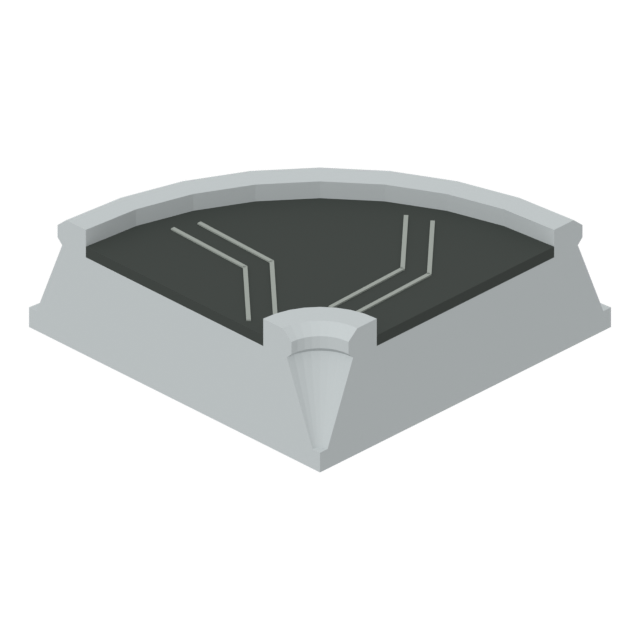
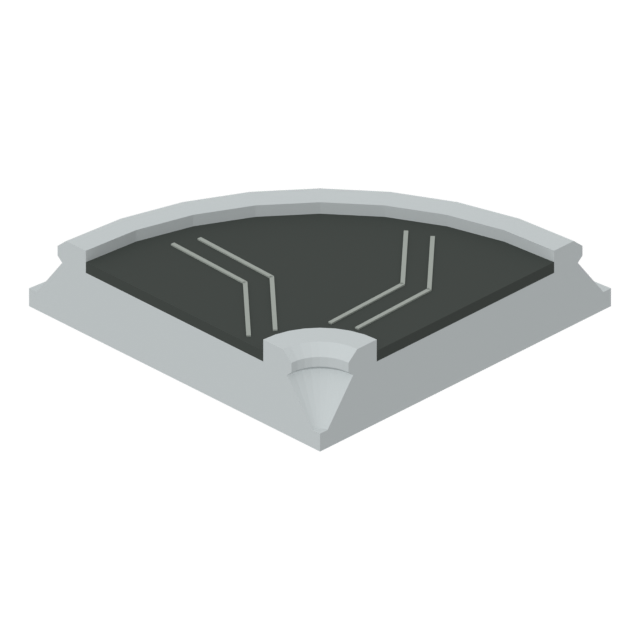
Flatten the belt by a third
The developer wants belts stacked one above another with things passing
between, as in Satisfactory. The belt's surface drops from 0.305 to
0.203 of a cell and the rails from 0.352 to 0.235; the bolts' place on
the rail and the dark of each machine's tunnel are now worked out from
those two definitions. One cell up, a second belt leaves 0.8 of a cell
(2.4 studs) clear above the first.

belts_stack shows three belts stacked with things riding each. Nothing
carries the upper belts yet. The game's own belt is unchanged.

Claude-Session: https://claude.ai/code/session_01W5XMnWw2PL68atZgiMiQxw

Changed region(s): [[0.0625, 0.25, 0.9375, 0.5938], [0.0312, 0.4062, 0.9688, 0.75]]

diff --git a/art/catalog/v2.html b/art/catalog/v2.html
@@ -110,7 +110,7 @@
       <figcaption>
         <h3>직선 벨트</h3>
         <p class="recipe">아이템을 한 방향으로 옮김</p>
-        <p class="meta">1×1칸 · 높이 0.3칸(1.0스터드) · 출입구 없음 · 삼각형 344</p>
+        <p class="meta">1×1칸 · 높이 0.2칸(0.7스터드) · 출입구 없음 · 삼각형 344</p>
       </figcaption>
     </figure>
     <figure class="card">
@@ -118,7 +118,7 @@
       <figcaption>
         <h3>코너 벨트</h3>
         <p class="recipe">진행 방향을 90도 꺾음 (좌·우 대칭형)</p>
-        <p class="meta">1×1칸 · 높이 0.3칸(1.0스터드) · 출입구 없음 · 삼각형 512</p>
+        <p class="meta">1×1칸 · 높이 0.2칸(0.7스터드) · 출입구 없음 · 삼각형 512</p>
       </figcaption>
     </figure>
     <figure class="card">
@@ -126,7 +126,7 @@
       <figcaption>
         <h3>경사 벨트</h3>
         <p class="recipe">두 칸에 걸쳐 한 칸 높이를 올림</p>
-        <p class="meta">2×1칸 · 높이 1.4칸(4.1스터드) · 출입구 없음 · 삼각형 1,828</p>
+        <p class="meta">2×1칸 · 높이 1.2칸(3.7스터드) · 출입구 없음 · 삼각형 1,828</p>
       </figcaption>
     </figure>
     <figure class="card">

diff --git a/art/v2/base.py b/art/v2/base.py
@@ -24,7 +24,9 @@ G, T, TD, W, D, SLIT = "h_grey", "h_taupe", "h_taupe_d", "h_white", "h_dark", "h
 fk.PAL.update({"h_rail": fk.PAL["h_grey"], "h_rail_d": fk.PAL["h_dark"]})
 R, RD = "h_rail", "h_rail_d"
 SIDES = (-1, 1)                       # used both for the two sides of the belt and for the two ends
-BH, BZ = 0.305, 0.305                 # belt half width and belt surface height
+BH, BZ = 0.305, 0.203                 # belt half width and belt surface height (the height was 0.305 until 2026-10-08:
+                                      # the developer asked for the belt a third flatter, so that belts can be stacked
+                                      # one above another with things passing between)
 BX, BY = 0.47, 0.43                   # half length and half width of the body block
 RAIL = [(BH, 0.0), (0.50, 0.0), (0.50, 0.10), (0.385, 0.215), (0.385, 0.305), (0.36, 0.335), (BH, 0.335)]
 
@@ -359,7 +361,7 @@ def foundation_b(m, top=0.82):
         m.prism(arch_pts(0.86, 0.74, hole_top=0.60, hw=0.315, c=0.05, ci=0.025), a, b, "X", D)
         for k in range(5):                                    # strip curtain
             m.box((0.012, 0.112, 0.27), (x1 + d * 0.02, -0.25 + k * 0.125, 0.465), SLIT)
-        m.box((0.02, 0.62, 0.40), (d * (BX + 0.012), 0, 0.50), SLIT)
+        m.box((0.02, 0.62, 0.694 - BZ), (d * (BX + 0.012), 0, (0.706 + BZ) / 2), SLIT)
     return top
 
 
@@ -394,8 +396,13 @@ def foundation_c(m, top=0.82):
 
 
 # Foundation D's rail, from the belt's edge outward and down to the ground.
-RAIL_D = [(BH, 0.352), (0.372, 0.352), (0.402, 0.326), (0.402, 0.292), (0.386, 0.276), (0.474, 0.055),
-          (0.50, 0.055), (0.50, 0.0)]
+RAIL_D = [(BH, 0.235), (0.372, 0.235), (0.402, 0.209), (0.402, 0.182), (0.386, 0.168), (0.474, 0.05),
+          (0.50, 0.05), (0.50, 0.0)]
+# Where a bolt head sits on the rail's sloping outer wall: across, up, and how far the wall leans (from RAIL_D).
+_s0, _s1 = RAIL_D[4], RAIL_D[5]
+_sl = math.hypot(_s1[0] - _s0[0], _s1[1] - _s0[1])
+BOLT_LEAN = math.atan2(_s1[0] - _s0[0], _s0[1] - _s1[1])
+BOLT_AT = ((_s0[0] + _s1[0]) / 2 + 0.006 * (_s0[1] - _s1[1]) / _sl, (_s0[1] + _s1[1]) / 2 + 0.006 * (_s1[0] - _s0[0]) / _sl)
 
 
 def chevrons2(m, x0, x1, step=0.375):
@@ -547,7 +554,7 @@ def foundation_d(m, top=0.82, foot=None):
     chevrons2(m, -1.5, 1.5)
     for x in (-4 / 3, -1.0, 1.0, 4 / 3):                      # a pale bolt head on each rail's sloping wall, three to a cell
         for s in SIDES:
-            m.cyl(BOLT[0], BOLT[1], (x, s * 0.4356, 0.1678), "h_lite", seg=6, axis="Y", rot=(s * rad(21.7), 0, 0))
+            m.cyl(BOLT[0], BOLT[1], (x, s * BOLT_AT[0], BOLT_AT[1]), "h_lite", seg=6, axis="Y", rot=(s * BOLT_LEAN, 0, 0))
     (foot or foot_beams)(m)
     bx(m, (-BX - 0.02, BX + 0.02), (-BY - 0.02, BY + 0.02), (0.262, 0.345), G, bevel=0.03)      # base course
     bx(m, (-BX, BX), (-BY, BY), (0.30, top), G, bevel=0.028)

diff --git a/art/v2/set2.py b/art/v2/set2.py
@@ -1243,7 +1243,7 @@ def former2(m):
             m.prism(arch_pts(0.90, 0.84, hole_top=0.705, hw=0.315, c=0.11, ci=0.05), a, b, "X", T)
             a2, b2 = sorted((sx * (X + 0.15), sx * (X + 0.185)))
             m.prism(arch_pts(0.78, 0.775, hole_top=0.705, hw=0.315, c=0.085, ci=0.05), a2, b2, "X", LT)
-            m.box((0.02, 0.62, 0.40), (sx * (X + 0.02), 0, 0.50), SLIT)
+            m.box((0.02, 0.62, 0.694 - BZ), (sx * (X + 0.02), 0, (0.706 + BZ) / 2), SLIT)
             m.prism([(sx * x, z) for x, z in ((X - 0.03, 0.83), (X - 0.03, 0.985), (X + 0.03, 0.985), (X + 0.14, 0.87), (X + 0.14, 0.83))],
                     -0.34, 0.34, "Y", ST)                     # the hood
         with on_end(m, sx, sx * X, -0.20, 0.66):
@@ -1548,7 +1548,7 @@ def blast5(m):
             m.prism(arch_pts(0.92, 0.86, hole_top=0.705, hw=0.315, c=0.11, ci=0.05), a_, b_, "X", G)
             a_, b_ = sorted((sx * (X + 0.15), sx * (X + 0.185)))
             m.prism(arch_pts(0.80, 0.79, hole_top=0.705, hw=0.315, c=0.085, ci=0.05), a_, b_, "X", LT)
-            m.box((0.02, 0.62, 0.40), (sx * (X + 0.02), 0, 0.50), SLIT)
+            m.box((0.02, 0.62, 0.694 - BZ), (sx * (X + 0.02), 0, (0.706 + BZ) / 2), SLIT)
             m.prism([(sx * x, z) for x, z in ((X - 0.03, 0.85), (X - 0.03, 1.02), (X + 0.03, 1.02), (X + 0.14, 0.895), (X + 0.14, 0.85))],
                     -0.36, 0.36, "Y", ST)
 
@@ -1677,6 +1677,20 @@ def belts_demo(m):
 
 belts_demo.frame, belts_demo.shadow = {"iso": (12.6, 0.9), "side": (7.0, 1.0), "top": (7.4, 0.6), "end": (6.0, 1.0)}, True
 _hero.HEROES["belts_demo"] = belts_demo
+def belts_stack(m):
+    """Not a machine: three belts one cell above another, things riding each under the one above, to
+    judge the room between them. Nothing holds the upper belts up here: what carries a stacked belt
+    is not designed yet."""
+    for k in range(3):
+        for x in (-1, 0, 1):
+            with m.at((x, 0, k)):
+                _belts.straight(m)
+        for x, mk in ((-1.1 + 0.35 * k, "h_ore"), (0.1 + 0.2 * k, "h_copper")):
+            m.box((0.30, 0.28, 0.22), (x, 0, k + BZ + 0.116), mk, bevel=0.05)
+
+
+belts_stack.frame, belts_stack.shadow = {"iso": (4.6, 1.3), "side": (3.6, 1.3), "top": (3.4, 0.6), "end": (2.2, 1.3)}, True
+_hero.HEROES["belts_stack"] = belts_stack
 F11 = {"iso": (1.9, 0.25), "side": (1.6, 0.4), "top": (1.5, 0.3), "end": (1.6, 0.4)}
 F21R = {"iso": (3.3, 0.7), "side": (2.8, 0.8), "top": (2.6, 0.5), "end": (2.2, 0.8)}
 for _n, _f, _fr in (("belt_straight", _belts.straight, F11), ("belt_right", _belts.corner_right, F11), ("belt_left", _belts.corner_left, F11),

diff --git a/art/v2/d.py b/art/v2/d.py
@@ -14,7 +14,7 @@ from mathutils import Matrix
 import factorykit as fk
 from .base import (rad, G, T, TD, W, D, SLIT, R, RD, SIDES, BH, BZ, BX, BY, RAIL_D, gear, side_pipe, side_panel,
                    octa, oct_ring, bx, foundation_d, foot_beams, foot_springs, foot_hearth, foot_anchor, foot_drain,
-                   foot_bin, bprism, collar, BOLT, offset_closed, loft_x)
+                   foot_bin, bprism, collar, BOLT, BOLT_AT, BOLT_LEAN, offset_closed, loft_x)
 from .kit import arch_pts, machine2
 from .hero import sunk_frame
 from .forms import frustum
@@ -53,7 +53,7 @@ def buttress(m, x):
     """A pale bolt head on the sloping wall of each rail. (It replaced a pointed brace; the name is kept
     for the callers.) The head lies square to the wall's slope."""
     for s in SIDES:
-        m.cyl(BOLT[0], BOLT[1], (x, s * 0.4356, 0.1678), "h_lite", seg=6, axis="Y", rot=(s * rad(21.7), 0, 0))
+        m.cyl(BOLT[0], BOLT[1], (x, s * BOLT_AT[0], BOLT_AT[1]), "h_lite", seg=6, axis="Y", rot=(s * BOLT_LEAN, 0, 0))
 
 
 def run(m, x0, x1, flow=1, braces=()):
@@ -79,7 +79,7 @@ def cover(m, x0, d, sole=True):
         a, b = sorted((px, px + d * th))
         m.prism(arch_pts(w, tp, hole_top=tp - 0.11, hw=hw, c=0.085, ci=0.035), a, b, "X", mk)
         px += d * th
-    m.box((0.02, 0.62, 0.40), (x0 + d * 0.012, 0, 0.50), SLIT)
+    m.box((0.02, 0.62, 0.694 - BZ), (x0 + d * 0.012, 0, (0.706 + BZ) / 2), SLIT)        # the dark of the tunnel, from the belt up
 
 
 def block(m, top=0.82):

diff --git a/art/v2/belts.py b/art/v2/belts.py
@@ -15,7 +15,7 @@ import bmesh
 from mathutils import Matrix
 from .d import *          # noqa: F401,F403
 from .d import run, chev, SECTION, BED, K
-from .base import BOLT
+from .base import BOLT, BOLT_AT, BOLT_LEAN
 
 ST = "h_steel"
 
@@ -40,7 +40,7 @@ def loft(m, rings, mk):
 def bolt(m):
     """One pale bolt head on the slope of the rail on the left of the way the belt runs, built in a
     frame whose x runs along the belt."""
-    m.cyl(BOLT[0], BOLT[1], (0, 0.4356, 0.1678), "h_lite", seg=6, axis="Y", rot=(rad(21.7), 0, 0))
+    m.cyl(BOLT[0], BOLT[1], (0, BOLT_AT[0], BOLT_AT[1]), "h_lite", seg=6, axis="Y", rot=(BOLT_LEAN, 0, 0))
 
 
 def straight(m):

diff --git a/docs/modeling-principles.md b/docs/modeling-principles.md
@@ -89,6 +89,7 @@
 
 개발자: "모든 벨트를 우리가 새로 만든 모델에 맞게(규격, 스타일) 다 맞춰서 새로 짜 봐. 모든 컨베이어 벨트는 자연스럽게 이어져야 함. 좌우로 꺾이는 벨트, 위로 올라가는 벨트 등 모든 접합부는 자연스럽게 이어져야 함을 잊지 말 것"(2026-10-07). 벨트 조각은 `art/v2/belts.py`에 있습니다.
 
+- **벨트는 낮고 납작합니다.** 벨트 면의 높이는 0.203칸(0.6스터드), 난간 꼭대기는 0.235칸입니다. 처음에는 0.305칸과 0.352칸이었는데, 개발자가 "벨트 높이부터 좀 줄이자, 한 1/3 정도만 납작하게. 새티스팩토리 보니까 벨트를 수직으로 쌓아서 아이템이 그 사이를 지나가더라"고 해서 3분의 2로 낮췄습니다(2026-10-08). 한 칸 위에 벨트를 또 놓으면 아래 벨트의 면에서 위 벨트의 밑까지 0.8칸(2.4스터드)이 남습니다. 높이는 `base.BZ`와 `base.RAIL_D` 두 곳에서만 정하고, 볼트 자리와 터널의 어둠은 거기서 계산됩니다. 쌓은 벨트를 무엇이 받치는지는 아직 정하지 않았습니다(`belts_stack`의 그림에서는 떠 있습니다).
 - **모든 조각은 같은 단면으로 끝납니다.** 난간과 바닥이 한 덩어리인 단면(`d.SECTION`)이 칸의 가장자리에서 직각으로 끝나므로, 어느 조각끼리든, 기계의 입구와도 턱 없이 이어집니다. 새 조각을 만들 때 이 단면을 바꾸거나 칸 가장자리에서 다른 모양으로 끝내지 않습니다.
 - **코너는 단면 전체를 칸의 안쪽 모서리를 중심으로 돌려서 만듭니다.** 난간 둘과 바닥과 벨트가 함께 휩니다. 난간을 직각으로 맞대지 않습니다. 화살표와 볼트도 휘는 방향을 따라 돕니다.
 - **경사는 만나는 상대에 따라 끝이 달라집니다.** 평평한 벨트와 만나는 끝은 수평으로 시작하거나 끝나서 난간이 꺾임 없이 이어지고, 다른 경사와 만나는 끝은 기울기를 그대로 유지합니다. 처음에는 모든 경사의 양 끝을 수평으로 만들었는데, 개발자가 "경사면을 여러 개 이을 때 롤러코스터마냥 꿀렁댈 것 같다"고 짚었습니다. 그래서 모양이 넷입니다: 혼자 놓인 것(양 끝 수평), 줄의 첫 칸(`ramp_start`), 가운데(`ramp_mid`), 마지막 칸(`ramp_end`). 게임에서는 플레이어가 고르는 것이 아니라 이웃을 보고 자동으로 정해져야 합니다(아직 안 만듦). 밑은 꽉 채운 둑이 아니라 다리 둘(난간 밑의 기둥과 그 사이의 가로대)이 받칩니다.

diff --git a/docs/game-design.md b/docs/game-design.md
@@ -1647,3 +1647,4 @@ python3 art/build_catalog.py
 | 2026-10-07 | 벨트 조각(직선, 좌우 코너, 경사, 열린 벨트)을 새 기계의 단면에 맞춰 다시 만듦(`art/v2/belts.py`). 코너는 휘어 돌고 경사는 양 끝이 수평이라 어느 조각끼리도 턱 없이 이어짐. 모델만 바뀌었고 게임은 아직 예전 모양을 씀 |
 | 2026-10-07 | 열린 벨트를 없앰(개발자: "열린 벨트를 없애버려"). 게임 코드, 레시피, 모델에서 뺌. 옆에서 들어오는 흐름을 받는 일은 합류기가 맡음. 경사 벨트는 양 끝이 모두 수평이면 여러 개를 이을 때 꿀렁댄다는 개발자의 지적에 따라, 이웃에 따라 끝이 달라지는 네 모양으로 바꿈(모델만. 게임이 이웃을 보고 고르는 것은 아직 없음) |
 | 2026-10-08 | 8.22절: 게임 안에 세워 본 모델이 작아 보여(용광로가 허리 높이) 기계 크기를 키우기로 함. 벨트는 한 칸 그대로, 용광로는 4×2칸으로. 용광로 `smelter9`를 이 크기로 만듦. 나머지는 게임 안에서 확인한 뒤 |
+| 2026-10-08 | 벨트를 3분의 1 납작하게 함(벨트 면 0.305칸 → 0.203칸, 난간 0.352칸 → 0.235칸). 개발자: 벨트를 수직으로 쌓아 그 사이로 아이템이 지나가게 하려는 것. 모델만 바뀜. 게임의 벨트 높이와 쌓은 벨트의 받침은 아직 |
